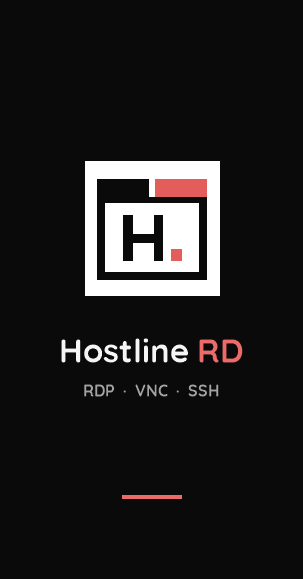
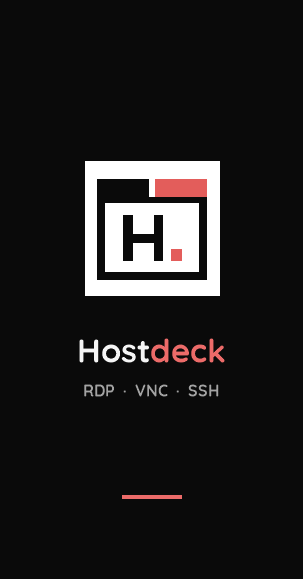
Hostline RD -> Hostdeck (surum 1.4.0)
"Hostline" WIPO/EUIPO'da 38 ve 42. siniflarda tescilli; ad degisti.
- Eski %AppData%\HostlineRD verisi ilk acilista Hostdeck klasorune tasinir
- Hostline paleti ayari Hostdeck'e eslenir
- Kurulum ayni AppGuid ile 1.3.0'in uzerine yukler; eski klasor, kisayollar,
  baslangic kaydi ve hostline:// protokolu silinir
- Belgeler, CLA, lisans ve depo adresleri blnahmt/hostdeck

Changed region(s): [[0.1782, 0.5596, 0.802, 0.6528]]

diff --git a/src/RdpManager/Views/ApiKeyDialog.xaml b/src/RdpManager/Views/ApiKeyDialog.xaml
@@ -210,7 +210,7 @@
                                 <Hyperlink NavigateUri="https://bilenahmet.com" RequestNavigate="Link_Navigate">bilenahmet.com</Hyperlink>
                             </TextBlock>
                             <TextBlock x:Name="GitHubLine" Style="{StaticResource Text.Secondary}" Margin="16,0,0,0">
-                                <Hyperlink NavigateUri="https://github.com/blnahmt/hostline" RequestNavigate="Link_Navigate">GitHub</Hyperlink>
+                                <Hyperlink NavigateUri="https://github.com/blnahmt/hostdeck" RequestNavigate="Link_Navigate">GitHub</Hyperlink>
                             </TextBlock>
                         </StackPanel>
                         <TextBlock Text="© 2026 Ahmet Bilen" Style="{StaticResource Text.Muted}" Margin="0,8,0,0" />

diff --git a/src/RdpManager/Resources/Themes/HostdeckDark.xaml b/src/RdpManager/Resources/Themes/HostdeckDark.xaml
@@ -2,7 +2,7 @@
                     xmlns:x="http://schemas.microsoft.com/winfx/2006/xaml">
 
     <!--
-        HOSTLINE KOYU - gercek siyah zemin, beyaz metin, yumusak kirmizi vurgu.
+        HOSTDECK KOYU - gercek siyah zemin, beyaz metin, yumusak kirmizi vurgu.
         Anahtarlar Light.xaml ile BIREBIR ayni olmali.
     -->
 

diff --git a/src/RdpManager/Resources/Themes/HostdeckLight.xaml b/src/RdpManager/Resources/Themes/HostdeckLight.xaml
@@ -2,7 +2,7 @@
                     xmlns:x="http://schemas.microsoft.com/winfx/2006/xaml">
 
     <!--
-        HOSTLINE ACIK - saf beyaz zemin, siyah metin, yumusak kirmizi vurgu.
+        HOSTDECK ACIK - saf beyaz zemin, siyah metin, yumusak kirmizi vurgu.
         Anahtarlar Light.xaml ile BIREBIR ayni olmali.
     -->
 

diff --git a/src/RdpManager/App.xaml.cs b/src/RdpManager/App.xaml.cs
@@ -30,7 +30,12 @@ public partial class App : Application
     /// Dil, App.xaml kaynaklari (Styles.xaml'deki menuler dahil) yuklenmeden ONCE secilmeli:
     /// {loc:T} metni yuklenirken cevriliyor. Kurucu InitializeComponent'ten once calisir.
     /// </summary>
-    public App() => Localization.Loc.Initialize(ReadLanguageSetting());
+    public App()
+    {
+        // Dil ayari okunmadan once: okuma yeni klasorde bos bir DB olusturur ve tasimayi engeller.
+        MigrateDataDirectory();
+        Localization.Loc.Initialize(ReadLanguageSetting());
+    }
 
     private static string? ReadLanguageSetting()
     {
@@ -265,7 +270,6 @@ public partial class App : Application
         };
         listener.Start();
 
-        MigrateDataDirectory();
         Directory.CreateDirectory(DataDirectory);
         ConfigureLogging();
 
@@ -352,12 +356,36 @@ public partial class App : Application
         return provider;
     }
 
+    /// <summary>Eski ad(lar)la kurulmus verinin klasorunu yeni ada tasir (yeni klasor yoksa).</summary>
     private static void MigrateDataDirectory()
     {
-        var oldDir = Path.Combine(
-            Environment.GetFolderPath(Environment.SpecialFolder.ApplicationData), "RdpManager");
-        if (Directory.Exists(oldDir) && !Directory.Exists(DataDirectory))
-            Directory.Move(oldDir, DataDirectory);
+        var appData = Environment.GetFolderPath(Environment.SpecialFolder.ApplicationData);
+        try
+        {
+            MoveLegacyDataDirectory(appData, DataDirectory, AppEdition.LegacyIds);
+        }
+        catch (Exception ex) when (ex is IOException or UnauthorizedAccessException)
+        {
+            // Eski surum hala acik (dosyalar kilitli). Bos veriyle baslarsak tasima bir daha denenmez.
+            Loc.Initialize(null);   // ayar okunamaz; sistem dili
+            MessageBox.Show(Loc.F("{0} klasoru tasinamadi. Uygulamanin eski surumunu kapatip tekrar deneyin.", appData),
+                AppEdition.Name, MessageBoxButton.OK, MessageBoxImage.Warning);
+            Environment.Exit(1);
+        }
+    }
+
+    /// <summary>Hedef yoksa ilk bulunan eski klasoru hedefe tasir. Tasinan klasoru (yoksa null) dondurur.</summary>
+    public static string? MoveLegacyDataDirectory(string appData, string target, IEnumerable<string> legacyIds)
+    {
+        if (Directory.Exists(target)) return null;
+        foreach (var legacy in legacyIds)
+        {
+            var oldDir = Path.Combine(appData, legacy);
+            if (!Directory.Exists(oldDir)) continue;
+            Directory.Move(oldDir, target);
+            return oldDir;
+        }
+        return null;
     }
 
     private static void ConfigureLogging()

diff --git a/src/RdpManager/Services/ThemeService.cs b/src/RdpManager/Services/ThemeService.cs
@@ -30,16 +30,16 @@ public sealed class ThemeService
     private const string AccentKey = "theme.accent";
     private const string PaletteKey = "theme.palette";
 
-    /// <summary>Secilebilir paletler. Hostline: beyaz/siyah + yumusak kirmizi. Klasik: gri + kirmizi.</summary>
-    public static readonly string[] Palettes = ["Hostline", "Klasik"];
+    /// <summary>Secilebilir paletler. Hostdeck: beyaz/siyah + yumusak kirmizi. Klasik: gri + kirmizi.</summary>
+    public static readonly string[] Palettes = ["Hostdeck", "Klasik"];
 
     /// <summary>Aktif paletin ana rengi (acik tema tonu). Ayarlardan degistirilebilir.</summary>
-    public string DefaultAccent => IsHostline ? "#E35D5B" : "#D64545";
+    public string DefaultAccent => IsHostdeck ? "#E35D5B" : "#D64545";
 
-    private bool IsHostline => Palette == "Hostline";
+    private bool IsHostdeck => Palette == "Hostdeck";
 
-    private Uri LightUri => new(IsHostline ? "Resources/Themes/HostlineLight.xaml" : "Resources/Themes/Light.xaml", UriKind.Relative);
-    private Uri DarkUri => new(IsHostline ? "Resources/Themes/HostlineDark.xaml" : "Resources/Themes/Dark.xaml", UriKind.Relative);
+    private Uri LightUri => new(IsHostdeck ? "Resources/Themes/HostdeckLight.xaml" : "Resources/Themes/Light.xaml", UriKind.Relative);
+    private Uri DarkUri => new(IsHostdeck ? "Resources/Themes/HostdeckDark.xaml" : "Resources/Themes/Dark.xaml", UriKind.Relative);
 
     private readonly Database _database;
     private ResourceDictionary? _current;
@@ -62,6 +62,7 @@ public sealed class ThemeService
     {
         AccentColor = LoadAccent();
         var palette = LoadSetting(PaletteKey);
+        if (palette == "Hostline") palette = "Hostdeck";   // eski ad (1.3.0 ve oncesi)
         Palette = Palettes.Contains(palette) ? palette! : AppEdition.DefaultPalette;
         Theme = Load();
         Apply(Theme, persist: false);

diff --git a/src/RdpManager/AppEdition.cs b/src/RdpManager/AppEdition.cs
@@ -7,13 +7,15 @@ namespace RdpManager;
 public static class AppEdition
 {
 #if PUBLIC_EDITION
-    public const string Name = "Hostline RD";
-    public const string Id = "HostlineRD";            // mutex + AppData klasoru
-    public const string UriScheme = "hostline";
+    public const string Name = "Hostdeck";
+    public const string Id = "Hostdeck";              // mutex + AppData klasoru
+    // Eski adla (Hostline RD, marka cakismasi nedeniyle degisti) kurulmus verinin klasoru; ilk acilista tasinir.
+    public static readonly string[] LegacyIds = ["HostlineRD"];
+    public const string UriScheme = "hostdeck";
     // GitHub her zaman en son (on surum olmayan) release'in dosyasina yonlendirir. Depo herkese acik olmali.
-    public const string UpdateUrl = "https://github.com/blnahmt/hostline/releases/latest/download/latest.json";
+    public const string UpdateUrl = "https://github.com/blnahmt/hostdeck/releases/latest/download/latest.json";
     public static bool HasServerStatus => false;      // sirket ici doluluk API'si yalniz ic surumde
-    public const string DefaultPalette = "Hostline";
+    public const string DefaultPalette = "Hostdeck";
     public static bool IsPublic => true;
     public const bool FollowsSystemLanguage = true;    // ilk acilista Windows dili (TR degilse EN)
 #else
@@ -22,6 +24,7 @@ public static class AppEdition
     public const string Id = InternalEdition.Id;
     public const string UriScheme = InternalEdition.UriScheme;
     public const string UpdateUrl = InternalEdition.UpdateUrl;
+    public static readonly string[] LegacyIds = ["RdpManager"];
     public static bool HasServerStatus => true;
     public const string DefaultPalette = "Klasik";
     public static bool IsPublic => false;

diff --git a/src/RdpManager.Tests/DataMigrationTests.cs b/src/RdpManager.Tests/DataMigrationTests.cs
@@ -1,0 +1,32 @@
+using System.IO;
+using Xunit;
+
+namespace RdpManager.Tests;
+
+public class DataMigrationTests
+{
+    [Fact]
+    public void Moves_legacy_folder_only_when_target_is_missing()
+    {
+        var root = Directory.CreateTempSubdirectory().FullName;
+        try
+        {
+            var target = Path.Combine(root, "Hostdeck");
+            Directory.CreateDirectory(Path.Combine(root, "HostlineRD"));
+            File.WriteAllText(Path.Combine(root, "HostlineRD", "connections.db"), "x");
+
+            Assert.Equal(Path.Combine(root, "HostlineRD"), App.MoveLegacyDataDirectory(root, target, ["Missing", "HostlineRD"]));
+            Assert.True(File.Exists(Path.Combine(target, "connections.db")));
+            Assert.False(Directory.Exists(Path.Combine(root, "HostlineRD")));
+
+            // Hedef varsa eski klasora dokunulmaz.
+            Directory.CreateDirectory(Path.Combine(root, "HostlineRD"));
+            Assert.Null(App.MoveLegacyDataDirectory(root, target, ["HostlineRD"]));
+            Assert.True(Directory.Exists(Path.Combine(root, "HostlineRD")));
+        }
+        finally
+        {
+            Directory.Delete(root, recursive: true);
+        }
+    }
+}

diff --git a/src/RdpManager/Rdp/SshHost.cs b/src/RdpManager/Rdp/SshHost.cs
@@ -28,7 +28,7 @@ namespace RdpManager.Rdp;
 /// </summary>
 public sealed class SshHost : UserControl, ISessionHost
 {
-    private const string VirtualHost = "terminal.hostline";
+    private const string VirtualHost = "terminal.hostdeck";
     private const int ReplayLimit = 256 * 1024;
 
     private static Task<CoreWebView2Environment>? _environment;

diff --git a/README.md b/README.md
@@ -1,8 +1,8 @@
 <p align="center">
-  <img src="docs/images/logo.png" width="96" alt="Hostline RD logo">
+  <img src="docs/images/logo.png" width="96" alt="Hostdeck logo">
 </p>
 
-<h1 align="center">Hostline RD</h1>
+<h1 align="center">Hostdeck</h1>
 
 <p align="center">
   <b>RDP, VNC and SSH in one tabbed window.</b><br>
@@ -10,16 +10,16 @@
 </p>
 
 <p align="center">
-  <a href="https://github.com/blnahmt/hostline/releases/latest"><b>Download for Windows</b></a> ·
-  <a href="https://bilenahmet.com/hostline/">Website</a> ·
-  <a href="https://github.com/blnahmt/hostline/issues">Report an issue</a>
+  <a href="https://github.com/blnahmt/hostdeck/releases/latest"><b>Download for Windows</b></a> ·
+  <a href="https://bilenahmet.com/hostdeck/">Website</a> ·
+  <a href="https://github.com/blnahmt/hostdeck/issues">Report an issue</a>
 </p>
 
 <p align="center">
-  <img src="docs/images/shot-ssh.png" alt="An SSH session open in a Hostline RD tab, showing a coloured shell prompt and command output">
+  <img src="docs/images/shot-ssh.png" alt="An SSH session open in a Hostdeck tab, showing a coloured shell prompt and command output">
 </p>
 
-## Why Hostline RD
+## Why Hostdeck
 
 - **Native, not a browser in disguise.** Built with .NET 10 and WPF. RDP sessions use Microsoft's own Remote Desktop ActiveX control (the same engine as `mstsc`), so display quality, DPI scaling and clipboard behave like the built-in client.
 - **Everything in tabs.** RDP, VNC and SSH sessions live side by side. Drag a tab out into its own window, go full screen, or span all monitors.
@@ -55,7 +55,7 @@
 
 ## Install
 
-1. Download `HostlineRD_<version>_x64-setup.exe` from the [latest release](https://github.com/blnahmt/hostline/releases/latest).
+1. Download `Hostdeck_<version>_x64-setup.exe` from the [latest release](https://github.com/blnahmt/hostdeck/releases/latest).
 2. Run it. No administrator rights are needed; it installs for the current user.
 
 **Requirements**
@@ -67,15 +67,15 @@ The installer is not code-signed yet, so SmartScreen may ask you to confirm.
 
 ## Privacy
 
-Connections, settings and history are stored in `%AppData%\HostlineRD`. The app only talks to the servers you connect to, checks whether they are reachable, and downloads `latest.json` from GitHub to look for updates (you can turn this off in Settings).
+Connections, settings and history are stored in `%AppData%\Hostdeck`. The app only talks to the servers you connect to, checks whether they are reachable, and downloads `latest.json` from GitHub to look for updates (you can turn this off in Settings).
 
 ## Build from source
 
 Prerequisites: [.NET 10 SDK](https://dotnet.microsoft.com/download/dotnet/10.0) and Windows.
 
 ```powershell
-git clone https://github.com/blnahmt/hostline.git
-cd hostline
+git clone https://github.com/blnahmt/hostdeck.git
+cd hostdeck
 dotnet build RdpManager.sln -c Debug
 dotnet run --project src/RdpManager
 ```
@@ -87,7 +87,7 @@ Release builds and the installer are produced by `tools/Release.ps1` (needs [Inn
 ## Project structure
 
 ```text
-hostline/
+hostdeck/
 ├── src/
 │   ├── RdpManager/            the app (WPF, .NET 10)
 │   │   ├── App.xaml.cs        startup, single instance, language, logging
@@ -123,6 +123,6 @@ Bug reports, ideas and pull requests are welcome. Please read [CONTRIBUTING.md](
 
 ## License
 
-Hostline RD is **source-available** under the [PolyForm Strict License 1.0.0](LICENSE): free for noncommercial use, with one additional permission to modify the code to prepare contributions to this repository. Redistribution and modified versions are not allowed, so there is one official release. Contributions are accepted under the [CLA](CLA.md).
+Hostdeck is **source-available** under the [PolyForm Strict License 1.0.0](LICENSE): free for noncommercial use, with one additional permission to modify the code to prepare contributions to this repository. Redistribution and modified versions are not allowed, so there is one official release. Contributions are accepted under the [CLA](CLA.md).
 
-The names "Hostline" and "Hostline RD" and the logo are not licensed for other uses. Third-party components keep their own licenses (see [Built with](#built-with)).
+The name "Hostdeck" and the logo are not licensed for other uses. Third-party components keep their own licenses (see [Built with](#built-with)).

diff --git a/docs/DEVELOPMENT.md b/docs/DEVELOPMENT.md
@@ -1,10 +1,10 @@
 # Geliştirici notları
 
-Hostline RD'nin iç yapısı ve dikkat edilmesi gereken tuzaklar. Kullanıcı belgeleri için [README](../README.md).
+Hostdeck'in iç yapısı ve dikkat edilmesi gereken tuzaklar. Kullanıcı belgeleri için [README](../README.md).
 
 ## Sürümler
 
-Depodaki tek sürüm **Hostline RD** (`dotnet build` varsayılanı). Kod `-p:Edition=Internal` ile
+Depodaki tek sürüm **Hostdeck** (`dotnet build` varsayılanı). Kod `-p:Edition=Internal` ile
 şirket içi bir sürüm de üretebiliyor; o sürümün adı, ikonu ve adresleri depoya girmeyen
 `src/RdpManager/Internal/` ve `tools/internal.ps1` dosyalarında durur.
 
@@ -34,7 +34,7 @@ dotnet run --project src/RdpManager -c Debug
 ```text
 src/RdpManager/
   App.xaml(.cs)        açılış, tek kopya kilidi, dil, DI, Serilog, global hata yakalama
-  AppEdition.cs        sürüme göre ad/kimlik/adresler (Hostline RD / iç sürüm)
+  AppEdition.cs        sürüme göre ad/kimlik/adresler (Hostdeck / iç sürüm)
   Rdp/
     ISessionHost.cs    sekmenin gördüğü ortak yüzey (RDP/VNC/SSH)
     RdpHost.xaml(.cs)  RDP oturumu (ActiveX) — asla yeniden yaratılmaz, re-parent edilir
@@ -49,7 +49,7 @@ src/RdpManager/
   Terminal/            SSH sekmesinin xterm.js sayfası
   Internal/            (git'e girmez) iç sürümün ad/ikon/adresleri
 lib/                   üretilen RDP interop DLL'leri
-tools/                 Release.ps1, installer.iss, Generate-Interop.ps1, Make-HostlineIcon.ps1
+tools/                 Release.ps1, installer.iss, Generate-Interop.ps1, Make-HostdeckIcon.ps1
 ```
 
 ## Bilinmesi gerekenler

diff --git a/CONTRIBUTING.md b/CONTRIBUTING.md
@@ -1,15 +1,15 @@
-# Contributing to Hostline RD
+# Contributing to Hostdeck
 
 Thanks for helping! Bug reports, ideas and pull requests are welcome.
 
 ## Before you start
 
-- **Bugs and ideas:** open an [issue](https://github.com/blnahmt/hostline/issues). Never post passwords, private keys or real server addresses.
+- **Bugs and ideas:** open an [issue](https://github.com/blnahmt/hostdeck/issues). Never post passwords, private keys or real server addresses.
 - **Larger changes:** open an issue first so we can agree on the approach before you spend time on it.
 
 ## License and CLA
 
-Hostline RD is **source-available** under the [PolyForm Strict License 1.0.0](LICENSE): you can read and use the code for noncommercial purposes, and you may fork and change it **only to prepare pull requests to this repository**. Redistributing the app or a modified version is not allowed, so there is a single official release.
+Hostdeck is **source-available** under the [PolyForm Strict License 1.0.0](LICENSE): you can read and use the code for noncommercial purposes, and you may fork and change it **only to prepare pull requests to this repository**. Redistributing the app or a modified version is not allowed, so there is a single official release.
 
 Before your first pull request can be merged, you will be asked to sign the [Contributor License Agreement](CLA.md). A bot comments on your pull request; sign by replying with exactly:
 

diff --git a/CLA.md b/CLA.md
@@ -1,6 +1,6 @@
-# Hostline RD Contributor License Agreement
+# Hostdeck Contributor License Agreement
 
-Thank you for contributing to Hostline RD ("the Project"), maintained by
+Thank you for contributing to Hostdeck ("the Project"), maintained by
 Ahmet Bilen (https://github.com/blnahmt, "the Maintainer"). This agreement makes clear the rights you give
 for your contributions, so the Project can keep a single official release
 and, if ever needed, change its license.
